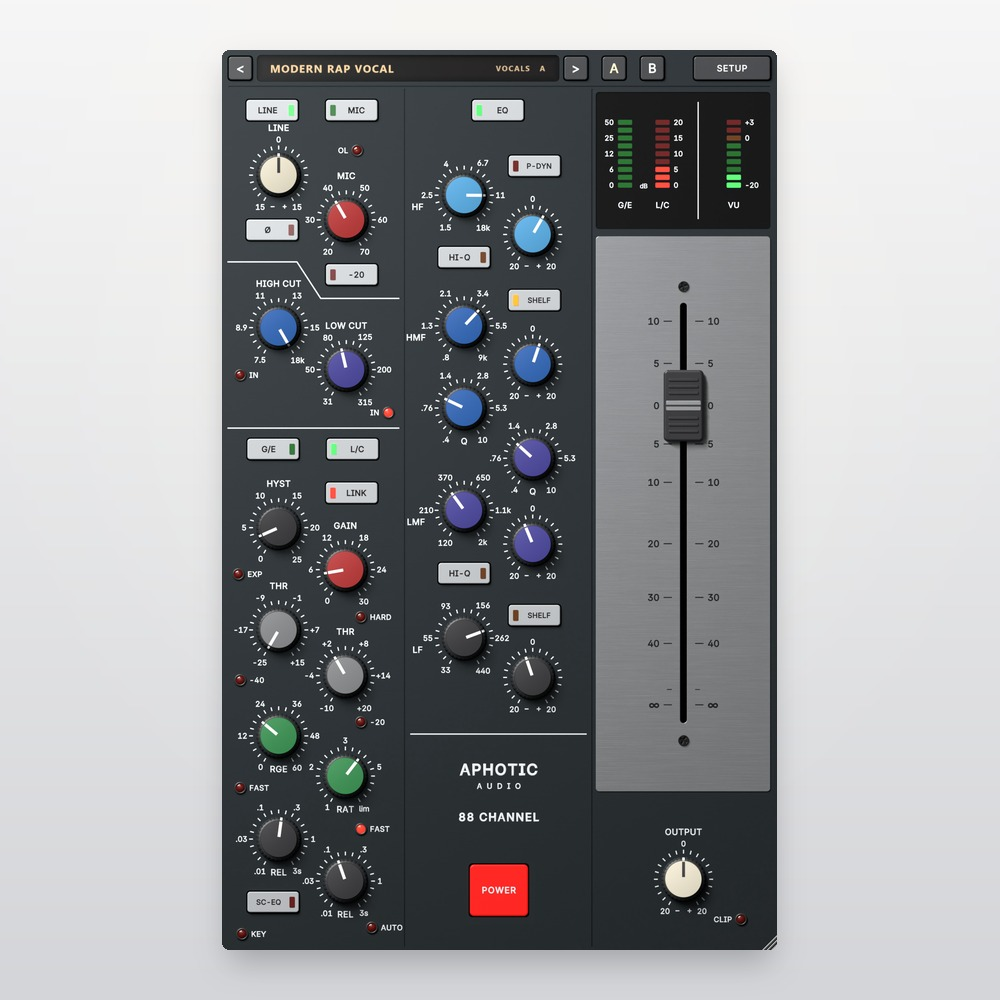
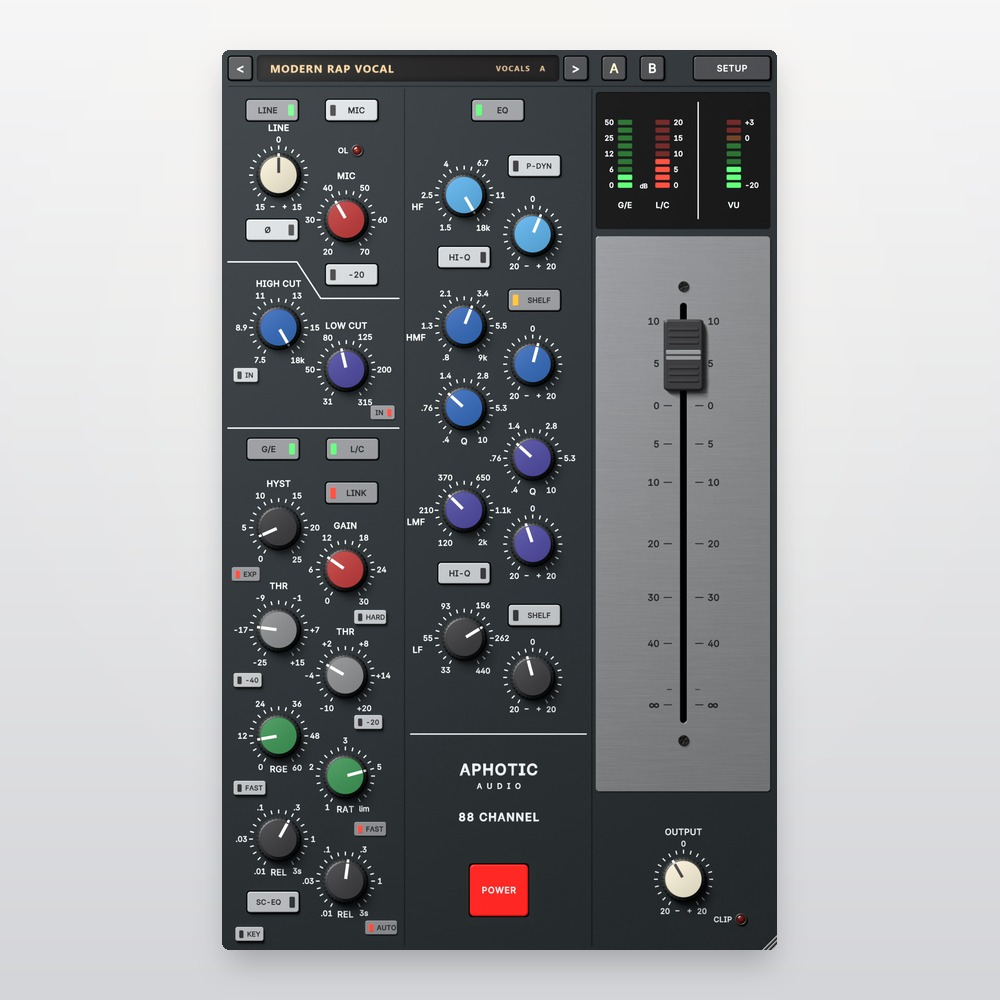
88 CHANNEL 1.0.1: auto input level, voiced presets, preset browser, clearer keys; page text, version and pictures

diff --git a/channel88.html b/channel88.html
@@ -43,13 +43,14 @@
             <h1 id="channel88-name">88 CHANNEL</h1>
             <p class="what">A console channel in one strip: line and mic preamp, low and high cut, gate and expander, compressor and limiter, a four-band equaliser, fader and output stage. Clean at ordinary levels, and it colours when you push it.</p>
             <ul class="feat">
+              <li>Auto input level: the channel trims your track to the level it is made for and gives it back at the output, so the presets work on quiet and hot takes alike</li>
               <li>Line amplifier, or a transformer mic preamp with 20 to 70 dB of gain, a pad and polarity; low and high cut</li>
               <li>Gate or 2:1 expander with hysteresis, and a compressor and limiter with soft or hard knee, fast attack and automatic release</li>
-              <li>Four-band equaliser: two parametric mids, high and low bands as bell or shelf with Hi-Q. Small boosts are broad, large ones sharp</li>
+              <li>Four-band equaliser: two parametric mids, high and low bands as bell or shelf with Hi-Q</li>
               <li>Three orders: dynamics then EQ, EQ then dynamics, or the EQ in the side chain for de-essing; stereo link and an external key</li>
               <li>A fader into an output amplifier and transformer that colour when pushed, then a clean output trim</li>
               <li>Oversampling up to 16x with linear-phase filters and antialiased clipping</li>
-              <li>Lamp meters for level and gain reduction; 27 presets, A/B, undo and redo, resizable window</li>
+              <li>27 presets voiced on real vocals, in a browser that says what each one does; A/B, undo and redo, resizable window</li>
             </ul>
             <div class="buy"><span class="price">Free</span><a class="btn solid" data-buy="channel88" href="./#hub">Get it free in Aphotic Hub</a></div>
             <p class="note">Free with an Aphotic Audio account. Installs in one click.</p>
@@ -59,7 +60,7 @@
             <dl class="specs">
               <dt>Latency</dt><dd>None at Eco; 51 samples at Normal, about 1 ms (reported to your DAW)</dd>
               <dt>Formats</dt><dd>Windows VST3 (64-bit). Not on Mac yet</dd>
-              <dt>Version</dt><dd><span data-version="channel88">1.0.0</span></dd>
+              <dt>Version</dt><dd><span data-version="channel88">1.0.1</span></dd>
               <dt>License</dt><dd>Free with an Aphotic Audio account</dd>
             </dl>
             <p class="note">88 CHANNEL is original software. It is not made, licensed or endorsed by the maker of any console or of any other plug-in.</p>
